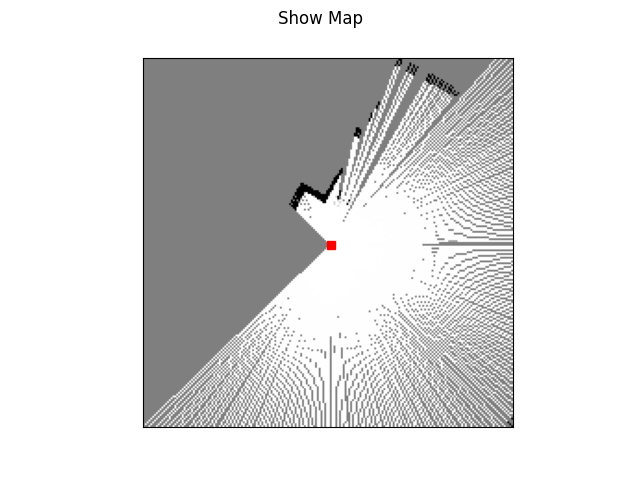
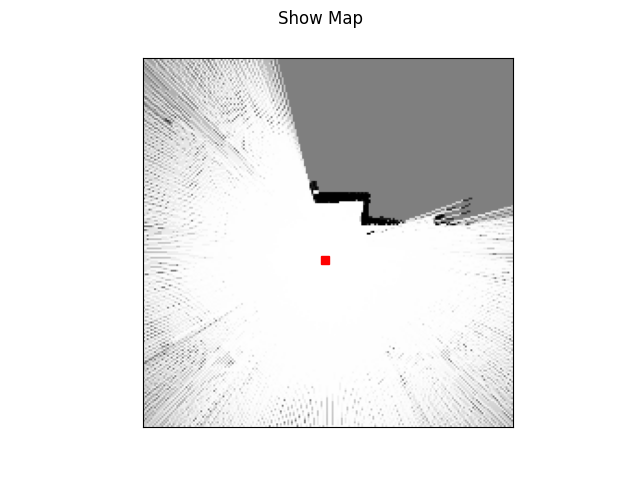
Update LaserSensorModel to take into account robot rotation when mapping

Changed region(s): [[0.2188, 0.125, 0.8125, 0.9062]]

diff --git a/assignments/MapMaker/Python/LaserSensorModel.py b/assignments/MapMaker/Python/LaserSensorModel.py
@@ -19,13 +19,16 @@ class LaserSensorModel:
         # Get the distances of all laser beams in meters (?)
         laser_scan = self.__robot.getLaser()['Echoes']
 
+        # Get robot heading angle.
+        heading = self.__robot.getHeading()
+
         # Get robot XY position
         position_wcs = self.__robot.getPosition()
         # Calculate the robot's position on the grid.
         robot_x_grid, robot_y_grid = self.__grid.pos_to_grid(position_wcs['X'], position_wcs['Y'])
 
         for angle, distance in zip(laser_angles, laser_scan):
-            self.__process_beam(robot_x_grid, robot_y_grid, angle, distance)
+            self.__process_beam(robot_x_grid, robot_y_grid, angle + heading, distance)
 
     def __process_beam(self, robot_x_grid, robot_y_grid, beam_angle, beam_distance):
         # Assumed distance error in laser measurement. Obstacle size on grid is taken as 2*distance_error.

diff --git a/assignments/MapMaker/Python/RobotController.py b/assignments/MapMaker/Python/RobotController.py
@@ -40,7 +40,7 @@ class RobotController:
 
         self.__show_map.close()
         self.__robot_drive.stop_robot()
-        self.__robot.setMotion(0.0,0.0)
+        self.__robot.setMotion(0.0, 0.0)
 
 
     def take_scan(self):
@@ -62,7 +62,7 @@ class RobotController:
 
     def take_step(self):
         robot_position_vector = npf.conv_pos_to_np(self.__robot.getPosition())
-        self.__robot_drive.set_WCS_coordinates(robot_position_vector[0]-10, robot_position_vector[1]-10)
+        self.__robot_drive.set_WCS_coordinates(robot_position_vector[0]-5, robot_position_vector[1]+10)
         self.__robot_drive.start_robot()
 
 if __name__ == "__main__":
